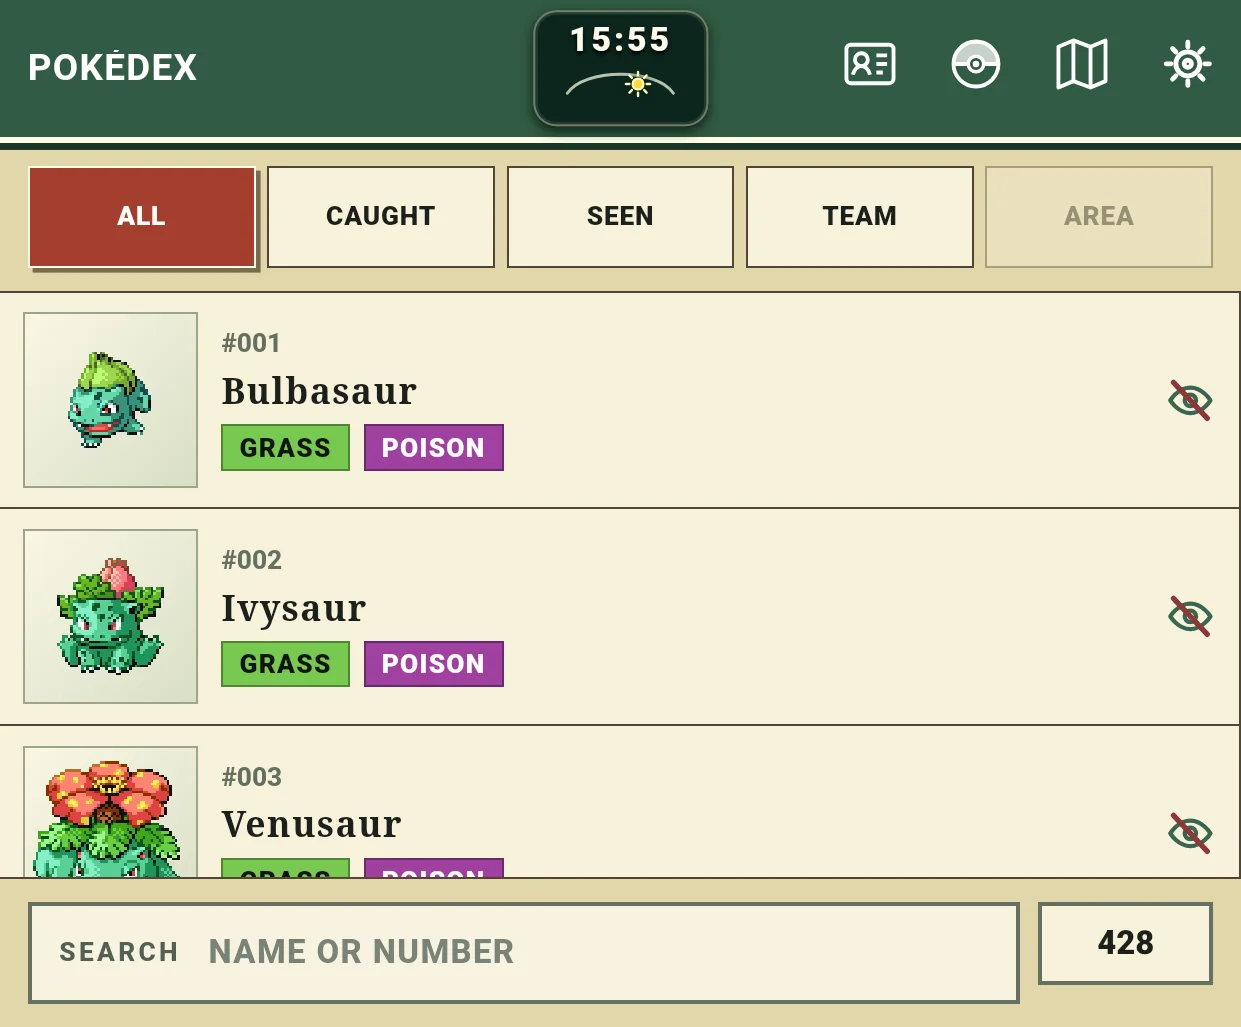
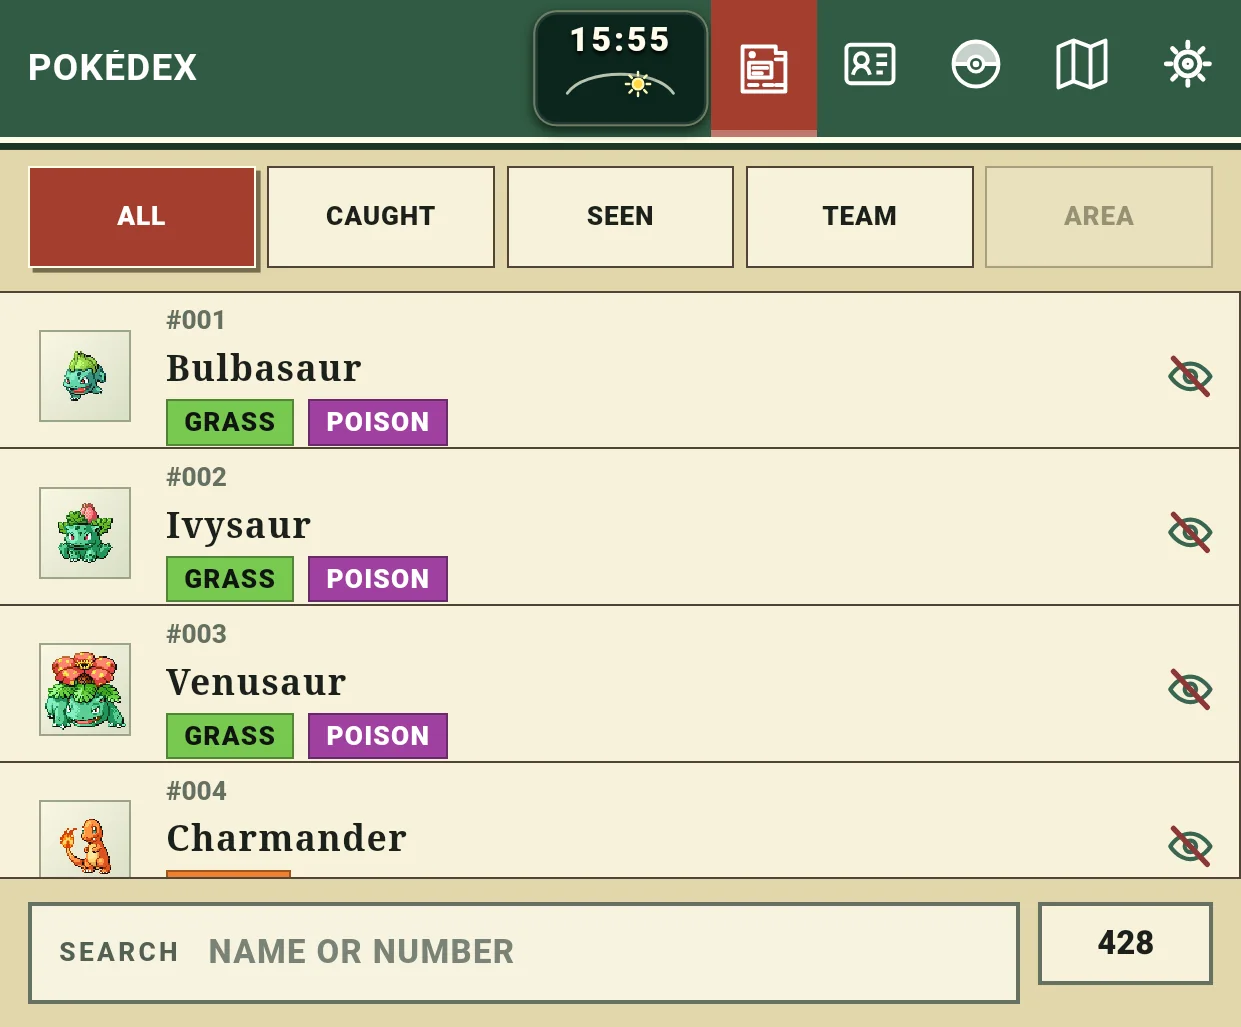
feat: unify active Thor header destinations

diff --git a/companion-web/src/styles.css b/companion-web/src/styles.css
@@ -79,7 +79,9 @@ button { cursor: pointer; }
 .header-title h1 { margin: 0; font-family: "Arial Black", Bahnschrift, sans-serif; font-size: 1.12em; letter-spacing: .035em; overflow: hidden; text-overflow: ellipsis; white-space: nowrap; }
 .header-title small { margin-top: 6px; color: #e8efc6; font-size: .63em; letter-spacing: .08em; text-transform: uppercase; overflow: hidden; text-overflow: ellipsis; white-space: nowrap; }
 .header-action { position: relative; align-self: stretch; border: 0; background: transparent; color: var(--semantic-header-fg); }
-.header-action:hover, .header-action:focus-visible { background: #ffffff12; outline: none; }
+.header-destination-action { display: grid; place-items: center; }
+.header-destination-action[aria-current="page"] { color: var(--semantic-selected-fg); background: var(--semantic-selected-bg); box-shadow: inset 0 -3px 0 color-mix(in srgb, var(--acid) 70%, white); }
+.header-action:hover:not([aria-current="page"]), .header-action:focus-visible { background: #ffffff12; outline: none; }
 .back-action span::before, .back-action span::after { content: ""; position: absolute; left: 21px; width: 13px; height: 3px; border-radius: 2px; background: currentColor; transform-origin: left center; }
 .back-action span::before { top: 26px; rotate: -45deg; }.back-action span::after { top: 25px; rotate: 45deg; }
 .settings-action svg { width: 25px; height: 25px; fill: none; stroke: currentColor; stroke-width: 2; stroke-linecap: round; }
@@ -98,8 +100,11 @@ button { cursor: pointer; }
 .game-time-celestial.is-day svg { fill: #ffd83d; stroke: #fff6b0; stroke-width: 1.4; stroke-linecap: round; }
 .game-time-celestial.is-night svg { fill: #e7efff; stroke: #fff; stroke-width: .8; stroke-linejoin: round; }
 .header-title, .header-actions, .header-action { position: relative; z-index: 2; }
-.map-action svg, .trainer-action svg, .party-action svg, .analysis-action svg, .trainer-destination-action svg { width: 26px; height: 26px; fill: none; stroke: currentColor; stroke-width: 1.8; stroke-linejoin: round; }
+.map-action svg, .pokedex-action svg, .trainer-action svg, .party-action svg, .analysis-action svg, .trainer-destination-action svg { width: 26px; height: 26px; fill: none; stroke: currentColor; stroke-width: 1.8; stroke-linejoin: round; }
 .party-action .party-ball-upper { fill: currentColor; stroke: none; opacity: .72; }.party-action .party-ball-body, .party-action .party-ball-divider, .party-action .party-ball-button-ring { fill: none; stroke: currentColor; }.party-action .party-ball-button-ring { fill: var(--theme-header, #173c2d); stroke-width: 1.6; }.party-action .party-ball-button-center { fill: currentColor; stroke: none; }
+.header-destination-action.party-action .party-ball-body { fill: currentColor; }
+.header-destination-action.party-action .party-ball-upper { fill: var(--semantic-selected-bg); opacity: 1; }
+.header-destination-action.party-action .party-ball-button-ring { fill: var(--semantic-selected-bg); }
 
 .trainer-screen { grid-template-rows: auto minmax(0, 1fr); }
 .trainer-card-screen, .party-screen { grid-template-rows: auto minmax(0, 1fr); }

diff --git a/companion-web/src/components.tsx b/companion-web/src/components.tsx
@@ -145,9 +145,35 @@ function AnalysisIcon() {
   </svg>;
 }
 
+export type HeaderDestination = 'POKEDEX' | 'PARTY' | 'MAP' | 'SETTINGS';
+
+export function CurrentHeaderDestination({ destination }: { destination: HeaderDestination }) {
+  const label = destination === 'POKEDEX'
+    ? 'Pokédex'
+    : destination === 'PARTY'
+      ? 'Party'
+      : destination === 'MAP'
+        ? 'Map'
+        : 'Settings';
+  const icon = destination === 'POKEDEX'
+    ? <DexIcon />
+    : destination === 'PARTY'
+      ? <PartyIcon />
+      : destination === 'MAP'
+        ? <MapIcon />
+        : <SettingsIcon />;
+
+  return <span
+    class={`header-action header-destination-action ${destination.toLowerCase()}-action`}
+    role="img"
+    aria-label={`${label}, current page`}
+    aria-current="page"
+  >{icon}</span>;
+}
+
 export const RouteHeadingFocusContext = createContext(true);
 
-export function Header({ title, kicker, gameTime, onBack, onSettings, onMap, onTrainer, onParty, onAnalysis, actions, focusKey, focusHeading = true }: {
+export function Header({ title, kicker, gameTime, onBack, onSettings, onMap, onTrainer, onParty, onAnalysis, currentDestination, actions, focusKey, focusHeading = true }: {
   title: string;
   kicker?: string;
   gameTime?: GameTime | null;
@@ -157,6 +183,7 @@ export function Header({ title, kicker, gameTime, onBack, onSettings, onMap, onT
   onTrainer?: () => void;
   onParty?: () => void;
   onAnalysis?: () => void;
+  currentDestination?: HeaderDestination;
   actions?: ComponentChildren;
   focusKey?: string | number;
   focusHeading?: boolean;
@@ -165,7 +192,7 @@ export function Header({ title, kicker, gameTime, onBack, onSettings, onMap, onT
   const mountedRef = useRef(false);
   const previousFocusKeyRef = useRef(focusKey);
   const allowRouteHeadingFocus = useContext(RouteHeadingFocusContext);
-  const hasActions = Boolean(actions || onTrainer || onParty || onMap || onSettings || onAnalysis);
+  const hasActions = Boolean(currentDestination || actions || onTrainer || onParty || onMap || onSettings || onAnalysis);
 
   useEffect(() => {
     const firstRender = !mountedRef.current;
@@ -183,6 +210,7 @@ export function Header({ title, kicker, gameTime, onBack, onSettings, onMap, onT
       <div class="header-title"><h1 ref={headingRef} tabIndex={-1}>{title}</h1>{kicker && <small>{kicker}</small>}</div>
       {gameTime && <GameClockIndicator clock={gameTime} />}
       {hasActions ? <div class="header-actions">
+        {currentDestination && <CurrentHeaderDestination destination={currentDestination} />}
         {actions}
         {onAnalysis && <button class="header-action analysis-action" onClick={onAnalysis} aria-label="Party Analysis"><AnalysisIcon /></button>}
         {onTrainer && <button class="header-action trainer-action" onClick={onTrainer} aria-label="Trainer Card"><TrainerCardIcon /></button>}

diff --git a/companion-web/src/layoutStyles.test.ts b/companion-web/src/layoutStyles.test.ts
@@ -17,6 +17,20 @@ describe('screen layout containment', () => {
     expect(actionRule).not.toMatch(/color\s*:\s*var\(--acid\)/)
   })
 
+  it('uses the selected semantic palette for the current header destination', () => {
+    const currentDestinationRule = styles.match(/\.header-destination-action\[aria-current="page"\]\s*\{([^}]*)\}/)?.[1]
+
+    expect(currentDestinationRule).toMatch(/color\s*:\s*var\(--semantic-selected-fg\)/)
+    expect(currentDestinationRule).toMatch(/background\s*:\s*var\(--semantic-selected-bg\)/)
+    expect(styles).toContain('.header-action:hover:not([aria-current="page"])')
+  })
+
+  it('keeps the active Party Poké Ball upright on its red destination background', () => {
+    expect(styles).toMatch(/\.header-destination-action\.party-action \.party-ball-body\s*\{[^}]*fill\s*:\s*currentColor/)
+    expect(styles).toMatch(/\.header-destination-action\.party-action \.party-ball-upper\s*\{[^}]*fill\s*:\s*var\(--semantic-selected-bg\)/)
+    expect(styles).toMatch(/\.header-destination-action\.party-action \.party-ball-button-ring\s*\{[^}]*fill\s*:\s*var\(--semantic-selected-bg\)/)
+  })
+
   it('keeps Party card copy inside the full padded card height', () => {
     const copyRule = styles.match(/\.party-slot-copy\s*\{([^}]*)\}/)?.[1]
 

diff --git a/companion-web/src/pages/MapPage.tsx b/companion-web/src/pages/MapPage.tsx
@@ -1,6 +1,6 @@
 import type { JSX } from 'preact';
 import { useEffect, useMemo, useRef, useState } from 'preact/hooks';
-import { AreaGuideIcon, DexIcon, FilterIcon, MapIcon, SettingsIcon } from '../components';
+import { AreaGuideIcon, CurrentHeaderDestination, DexIcon, FilterIcon, MapIcon, SettingsIcon } from '../components';
 import { GameClockIndicator } from '../GameClockIndicator';
 import { clusterMapTargets } from '../mapClustering';
 import { AcceleratedMapFollower, anchoredZoom, centerMapPoint, containFit, focusMapRect, GestureTracker, maximumScaleForMarker, MAX_MAP_SCALE, shouldGlideCamera, type MapViewport } from '../mapEngine';
@@ -543,6 +543,7 @@ export function MapPage({ catalog, state, onOpenPokedex, onOpenSettings, onUpdat
       </div>
       {state.gameTime && <GameClockIndicator clock={state.gameTime} />}
       <div class="header-actions map-header-actions">
+        <CurrentHeaderDestination destination="MAP" />
         <button class="header-action map-dex-action" aria-label="Open Pokédex" onClick={onOpenPokedex}><DexIcon /></button>
         <button class="header-action settings-action" aria-label="Settings" onClick={onOpenSettings}><SettingsIcon /></button>
       </div>

diff --git a/companion-web/src/pages/MapPage.test.tsx b/companion-web/src/pages/MapPage.test.tsx
@@ -45,6 +45,16 @@ const state: State = {
 };
 
 describe('normalized world map presentation', () => {
+  it('marks Map as the current header destination beside navigation utilities', () => {
+    render(<MapPage catalog={catalog} state={state} onOpenPokedex={vi.fn()} onOpenSettings={vi.fn()} />);
+
+    const current = screen.getByRole('img', { name: 'Map, current page' });
+    expect(current.getAttribute('aria-current')).toBe('page');
+    expect(current.querySelector('[data-semantic-icon="map"]')).toBeTruthy();
+    expect(screen.getByRole('button', { name: 'Open Pokédex' })).toBeTruthy();
+    expect(screen.getByRole('button', { name: 'Settings' })).toBeTruthy();
+  });
+
   it('opens the Area Guide for the tracked or manually selected Atlas area without changing map state', () => {
     const guideState: State = {
       ...state,

diff --git a/companion-web/src/components.test.tsx b/companion-web/src/components.test.tsx
@@ -17,6 +17,15 @@ describe('application header icons', () => {
     expect(container.querySelectorAll('.party-ball-body')).toHaveLength(1);
   });
 
+  it('marks the current root destination with its semantic icon', () => {
+    render(<Header title="POKÉDEX" currentDestination="POKEDEX" onParty={vi.fn()} />);
+
+    const current = screen.getByRole('img', { name: 'Pokédex, current page' });
+    expect(current.getAttribute('aria-current')).toBe('page');
+    expect(current.querySelector('[data-semantic-icon="pokedex"]')).toBeTruthy();
+    expect(screen.getByRole('button', { name: 'Party' }).hasAttribute('aria-current')).toBe(false);
+  });
+
   it('provides the route programmatic heading', () => {
     render(<Header title="POKÉDEX" />);
 

diff --git a/companion-web/src/pages/SettingsPage.tsx b/companion-web/src/pages/SettingsPage.tsx
@@ -107,7 +107,7 @@ export function SettingsPage({
   };
 
   return <section class="screen settings-screen">
-    <Header title={activeCategory?.label.toUpperCase() ?? 'SETTINGS'} gameTime={state.gameTime} focusHeading={initialControl == null} onBack={handleBack} />
+    <Header title={activeCategory?.label.toUpperCase() ?? 'SETTINGS'} gameTime={state.gameTime} focusHeading={initialControl == null} onBack={handleBack} currentDestination="SETTINGS" />
     <div ref={contentRef} class="settings-content" data-scroll-region>
       <h2 ref={viewHeadingRef} class="settings-view-heading" tabIndex={-1}>{activeCategory?.label ?? 'Settings categories'}</h2>
       {category == null && <nav class="settings-category-list" aria-label="Settings categories">

diff --git a/companion-web/src/pages/PartyPage.tsx b/companion-web/src/pages/PartyPage.tsx
@@ -71,7 +71,7 @@ export function PartyPage({ catalog, state, onBack, openMove, openAbility, openN
   };
 
   return <section class="screen party-screen">
-    <Header title="PARTY" gameTime={state.gameTime} onBack={onBack} onAnalysis={onOpenAnalysis} />
+    <Header title="PARTY" gameTime={state.gameTime} onBack={onBack} currentDestination="PARTY" onAnalysis={onOpenAnalysis} />
     <div ref={contentRef} class="party-content" data-scroll-region onScroll={event => onScrollTopChange?.(event.currentTarget.scrollTop)}>
       <div class="party-grid" data-layout="2x3" aria-label="Party slots">
         {members.map(member => {

diff --git a/companion-web/src/pages/PartyPage.test.tsx b/companion-web/src/pages/PartyPage.test.tsx
@@ -10,6 +10,7 @@ describe('Party', () => {
     const onOpenAnalysis = vi.fn();
     const { container } = render(<PartyPage catalog={catalog} state={partyState('ORGANIC')} onBack={vi.fn()} onOpenAnalysis={onOpenAnalysis} openMove={vi.fn()} openAbility={vi.fn()} />);
 
+    expect(screen.getByRole('img', { name: 'Party, current page' }).getAttribute('aria-current')).toBe('page');
     fireEvent.click(screen.getByRole('button', { name: 'Party Analysis' }));
     expect(onOpenAnalysis).toHaveBeenCalledOnce();
     expect(container.querySelector('.party-grid')?.getAttribute('data-layout')).toBe('2x3');

diff --git a/companion-web/src/pages/SettingsPage.navigation.test.tsx b/companion-web/src/pages/SettingsPage.navigation.test.tsx
@@ -9,6 +9,7 @@ describe('Settings navigation', () => {
   it('shows exactly seven categories and only the selected category content', () => {
     render(<SettingsPage catalog={catalog} state={state} send={vi.fn()} onUpload={vi.fn()} />);
 
+    expect(screen.getByRole('img', { name: 'Settings, current page' }).getAttribute('aria-current')).toBe('page');
     expect(screen.getAllByRole('button', { name: /^(General|Connection|Display|Information|Accessibility|Behavior|Advanced)$/ })).toHaveLength(7);
     expect(SETTINGS_CATEGORIES.map(category => category.label)).toEqual([
       'General',

diff --git a/companion-web/src/pages/PokedexBrowse.test.tsx b/companion-web/src/pages/PokedexBrowse.test.tsx
@@ -52,6 +52,7 @@ describe('Pokédex knowledge modes', () => {
     const { container } = render(<PokedexBrowse catalog={catalog} state={state} send={vi.fn()} />);
 
     expect(screen.getByText('POKÉDEX')).toBeTruthy();
+    expect(screen.getByRole('img', { name: 'Pokédex, current page' }).getAttribute('aria-current')).toBe('page');
     expect(container.querySelector('.header-title small')).toBeNull();
     expect(screen.queryByText(/EMERALD|ORGANIC/)).toBeNull();
   });

diff --git a/companion-web/src/pages/PokedexBrowse.tsx b/companion-web/src/pages/PokedexBrowse.tsx
@@ -119,6 +119,7 @@ export function PokedexBrowse({ catalog, state, send, onOpenMap }: { catalog: Ca
     <Header
       title="POKÉDEX"
       gameTime={state.gameTime}
+      currentDestination="POKEDEX"
       onTrainer={state.trainerCardUnlocked === true ? () => send('OPEN_TRAINER') : undefined}
       onParty={state.party?.some(member => member.occupied) ? () => send('OPEN_PARTY') : undefined}
       onSettings={() => send('SCREEN', { screen: 'SETTINGS' })}
